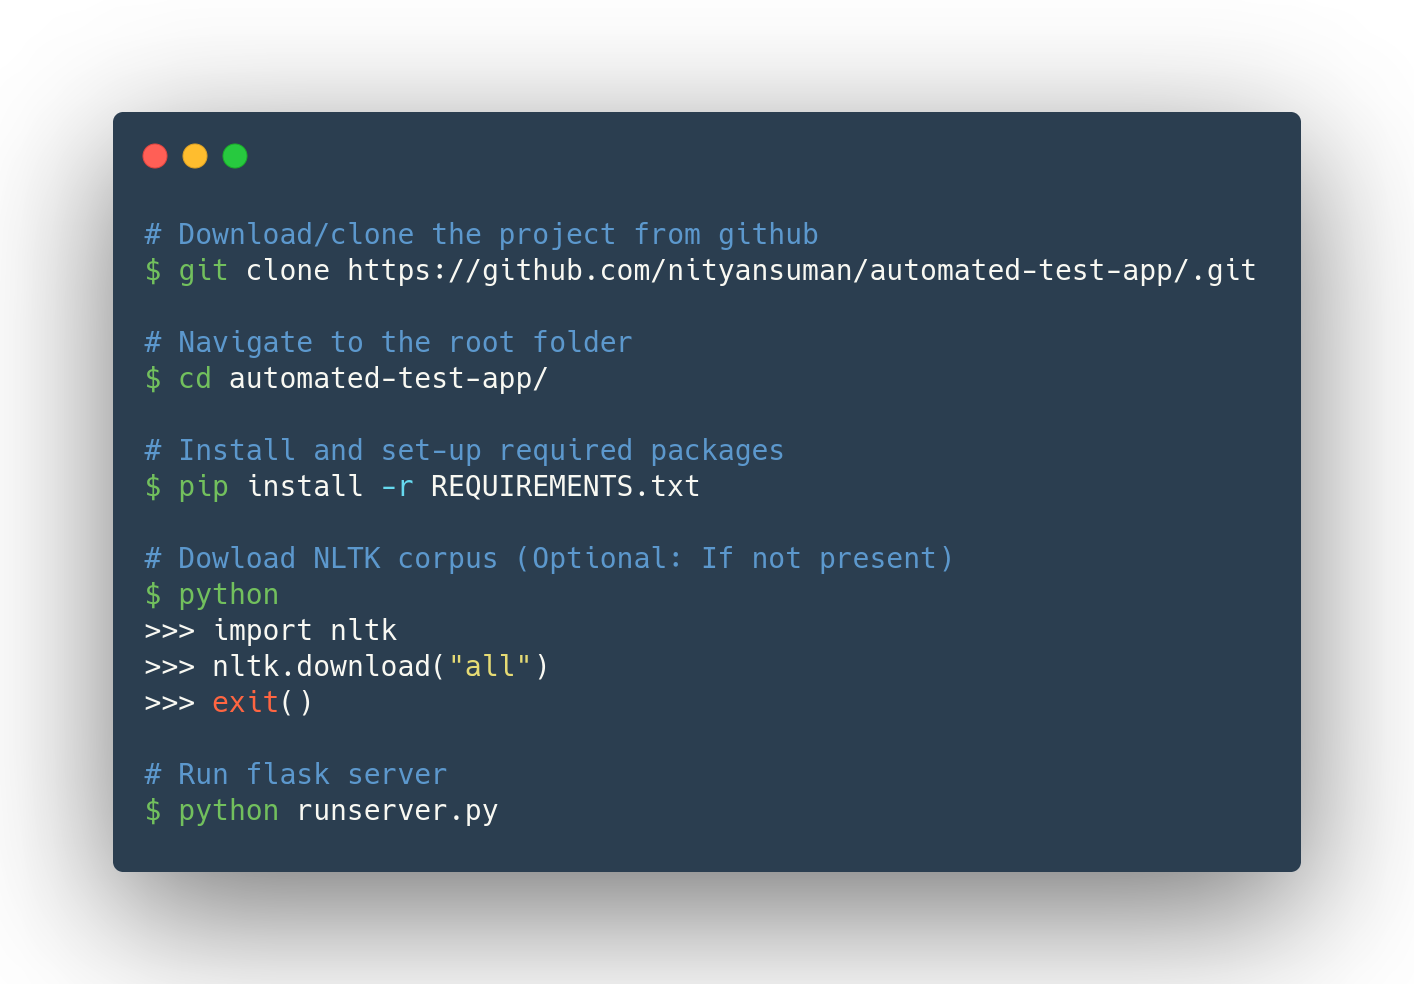
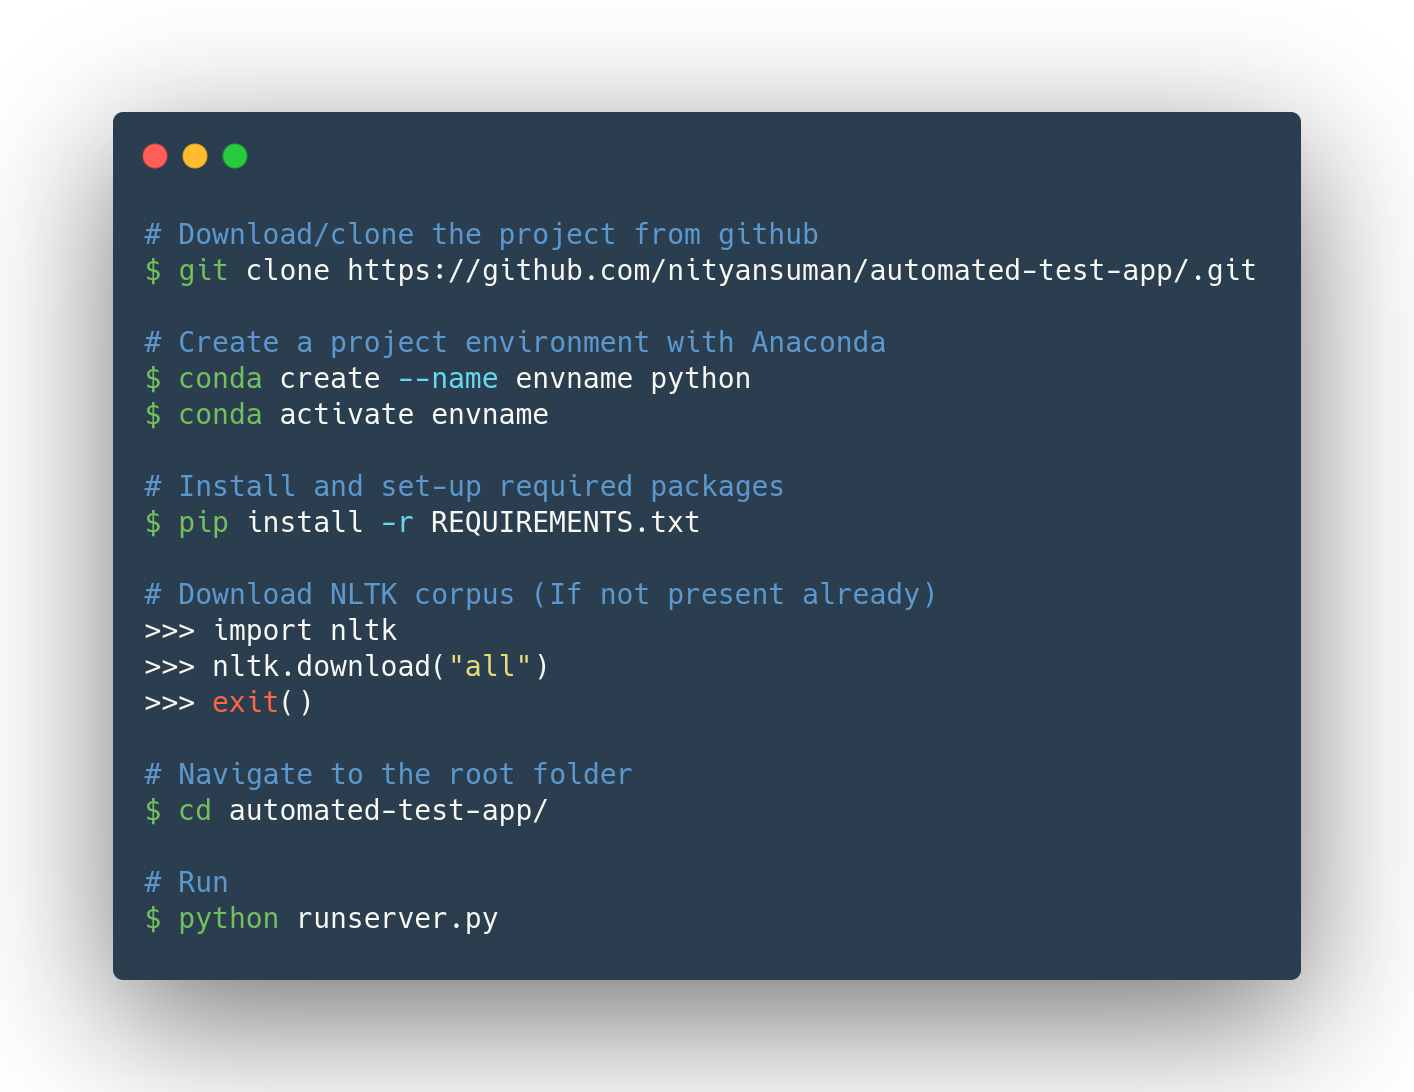
Updated README

diff --git a/README.md b/README.md
@@ -20,6 +20,27 @@ assess user responses.
 
 ![Image](images/info.png)
 
+<!-- # Download/clone the project from github
+$ git clone https://github.com/nityansuman/automated-test-app/.git
+
+# Create a project environment with Anaconda
+$ conda create --name envname python
+$ conda activate envname
+
+# Install and set-up required packages
+$ pip install -r REQUIREMENTS.txt
+
+# Download NLTK corpus (If not present already)
+>>> import nltk
+>>> nltk.download("all")
+>>> exit()
+
+# Navigate to the root folder
+$ cd automated-test-app/
+
+# Run
+$ python runserver.py -->
+
 ## Important Links
 
 * [How to install anaconda python distribution ?](https://docs.anaconda.com/anaconda/install/)
